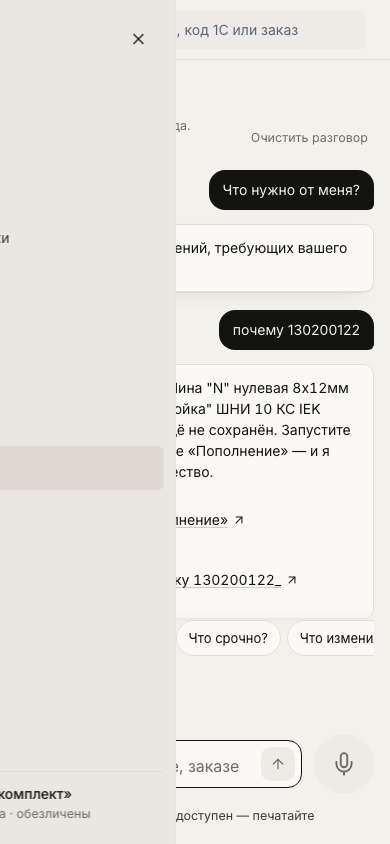
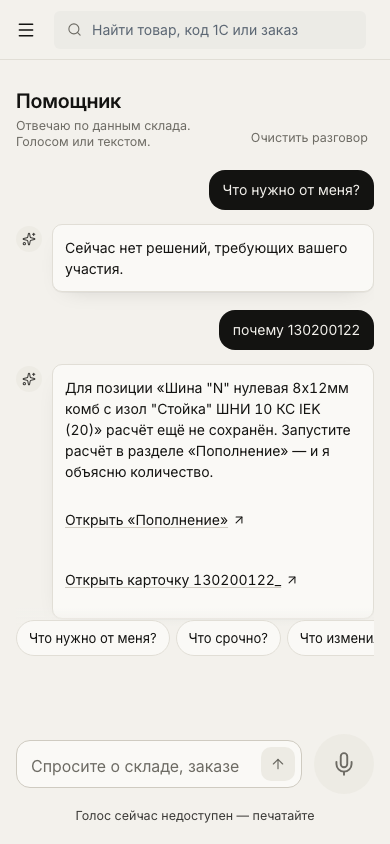
ASSIST-2: phone screenshot from a real 390 px load (shared thread restored from storage)

diff --git a/tests/e2e/assist.spec.ts b/tests/e2e/assist.spec.ts
@@ -84,7 +84,10 @@ test("assistant page: chip → inline card, typed «почему 130200122» →
   expect(await sku.innerText()).not.toMatch(TECH);
   await expect(sku.getByRole("link", { name: /Открыть карточку 130200122_/ })).toHaveAttribute("href", `${PREFIX}/skus/130200122_`);
   await page.screenshot({ path: `${OUT2}/02_assistant_cards_1440.png`, fullPage: true });
+  // Phone: a real load at 390 (the shared thread comes back from storage), not a desktop resize.
   await page.setViewportSize({ width: 390, height: 844 });
+  await go(page, `${PREFIX}/assistant`);
+  await expect(surface.getByRole("article", { name: "почему 130200122" })).toBeVisible();
   await expect(surface.getByRole("button", { name: "Говорить с ассистентом" })).toBeVisible();
   expect(await page.evaluate(() => document.documentElement.scrollWidth)).toBeLessThanOrEqual(390);
   await page.screenshot({ path: `${OUT2}/03_assistant_390.png` });
